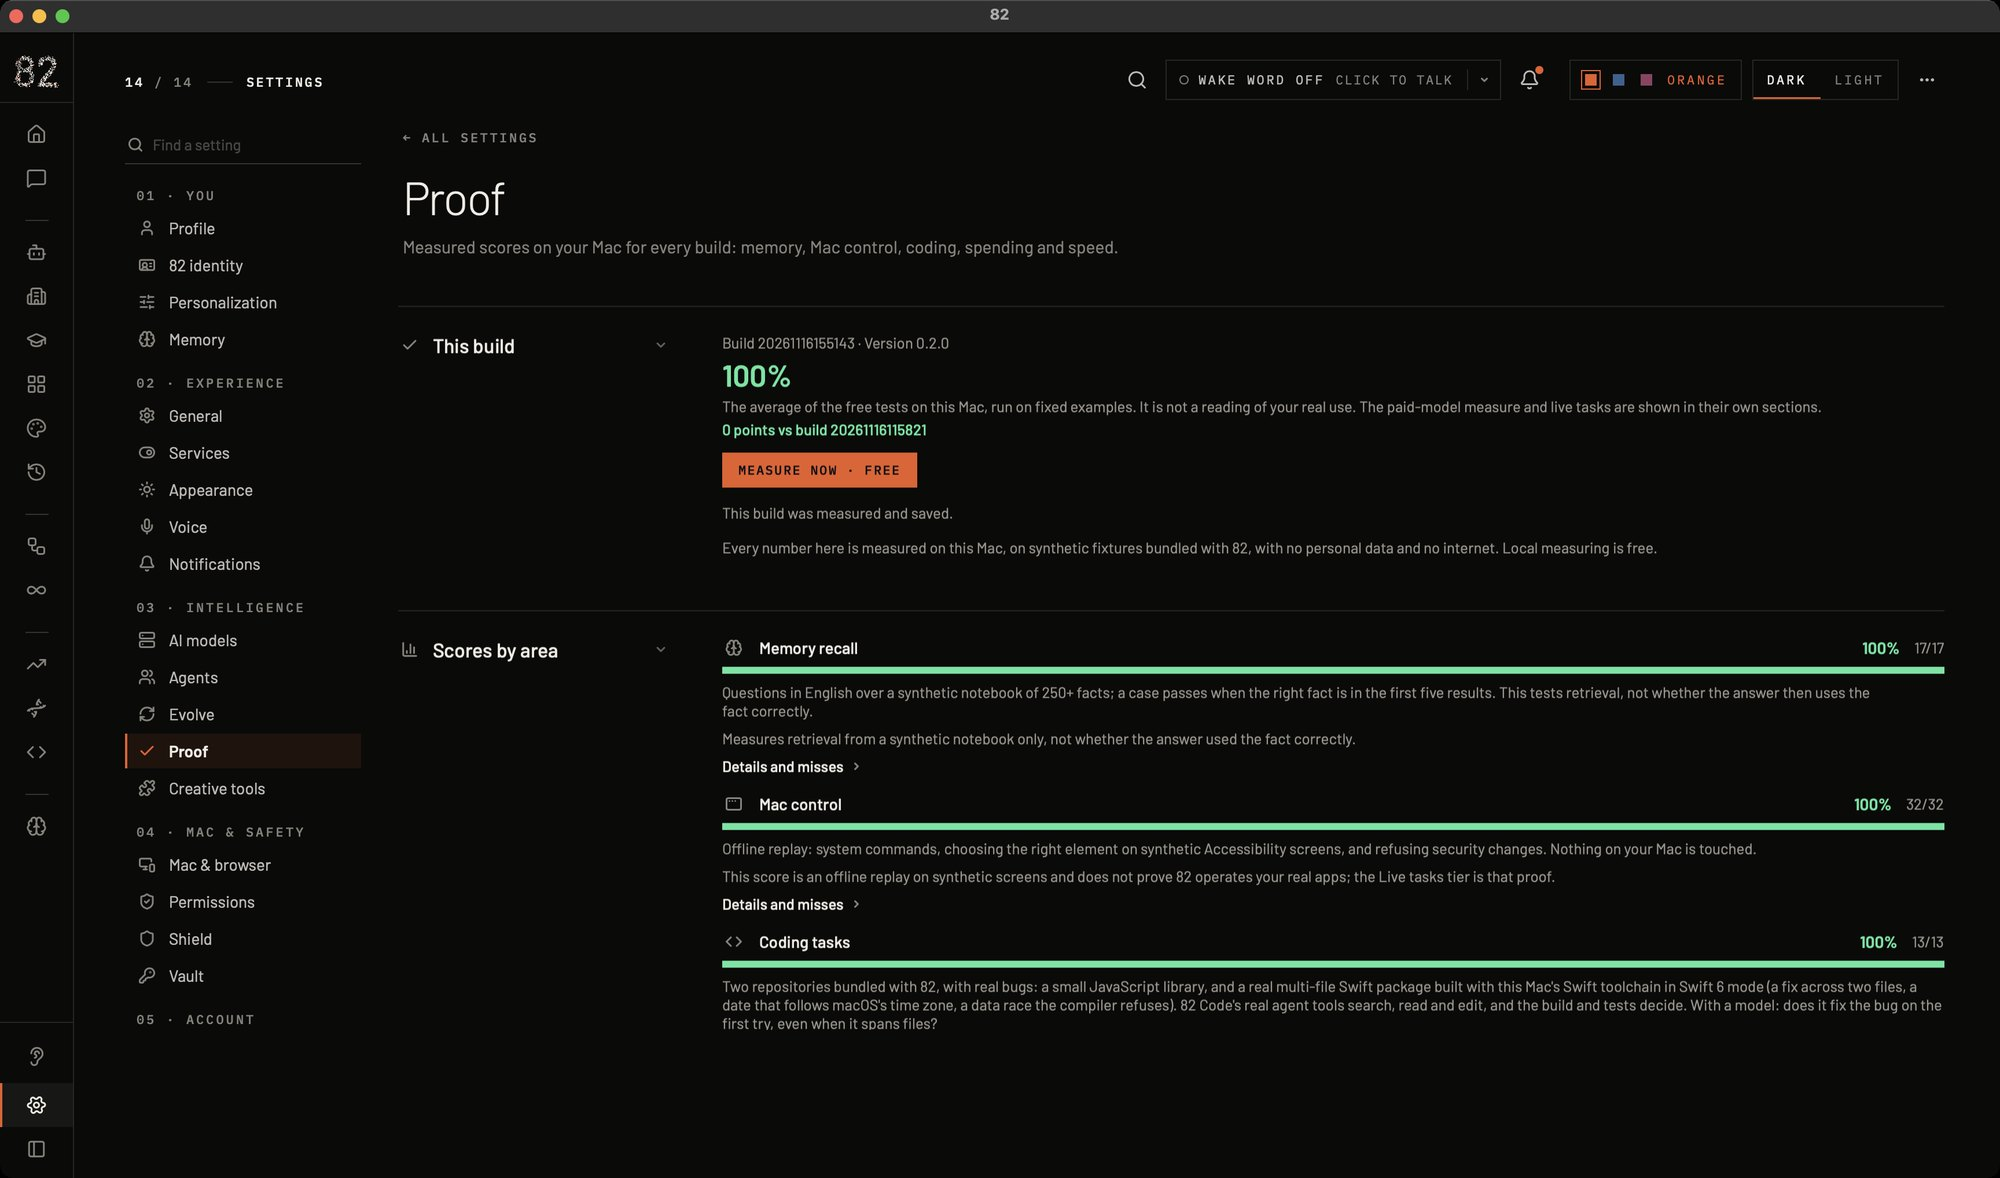
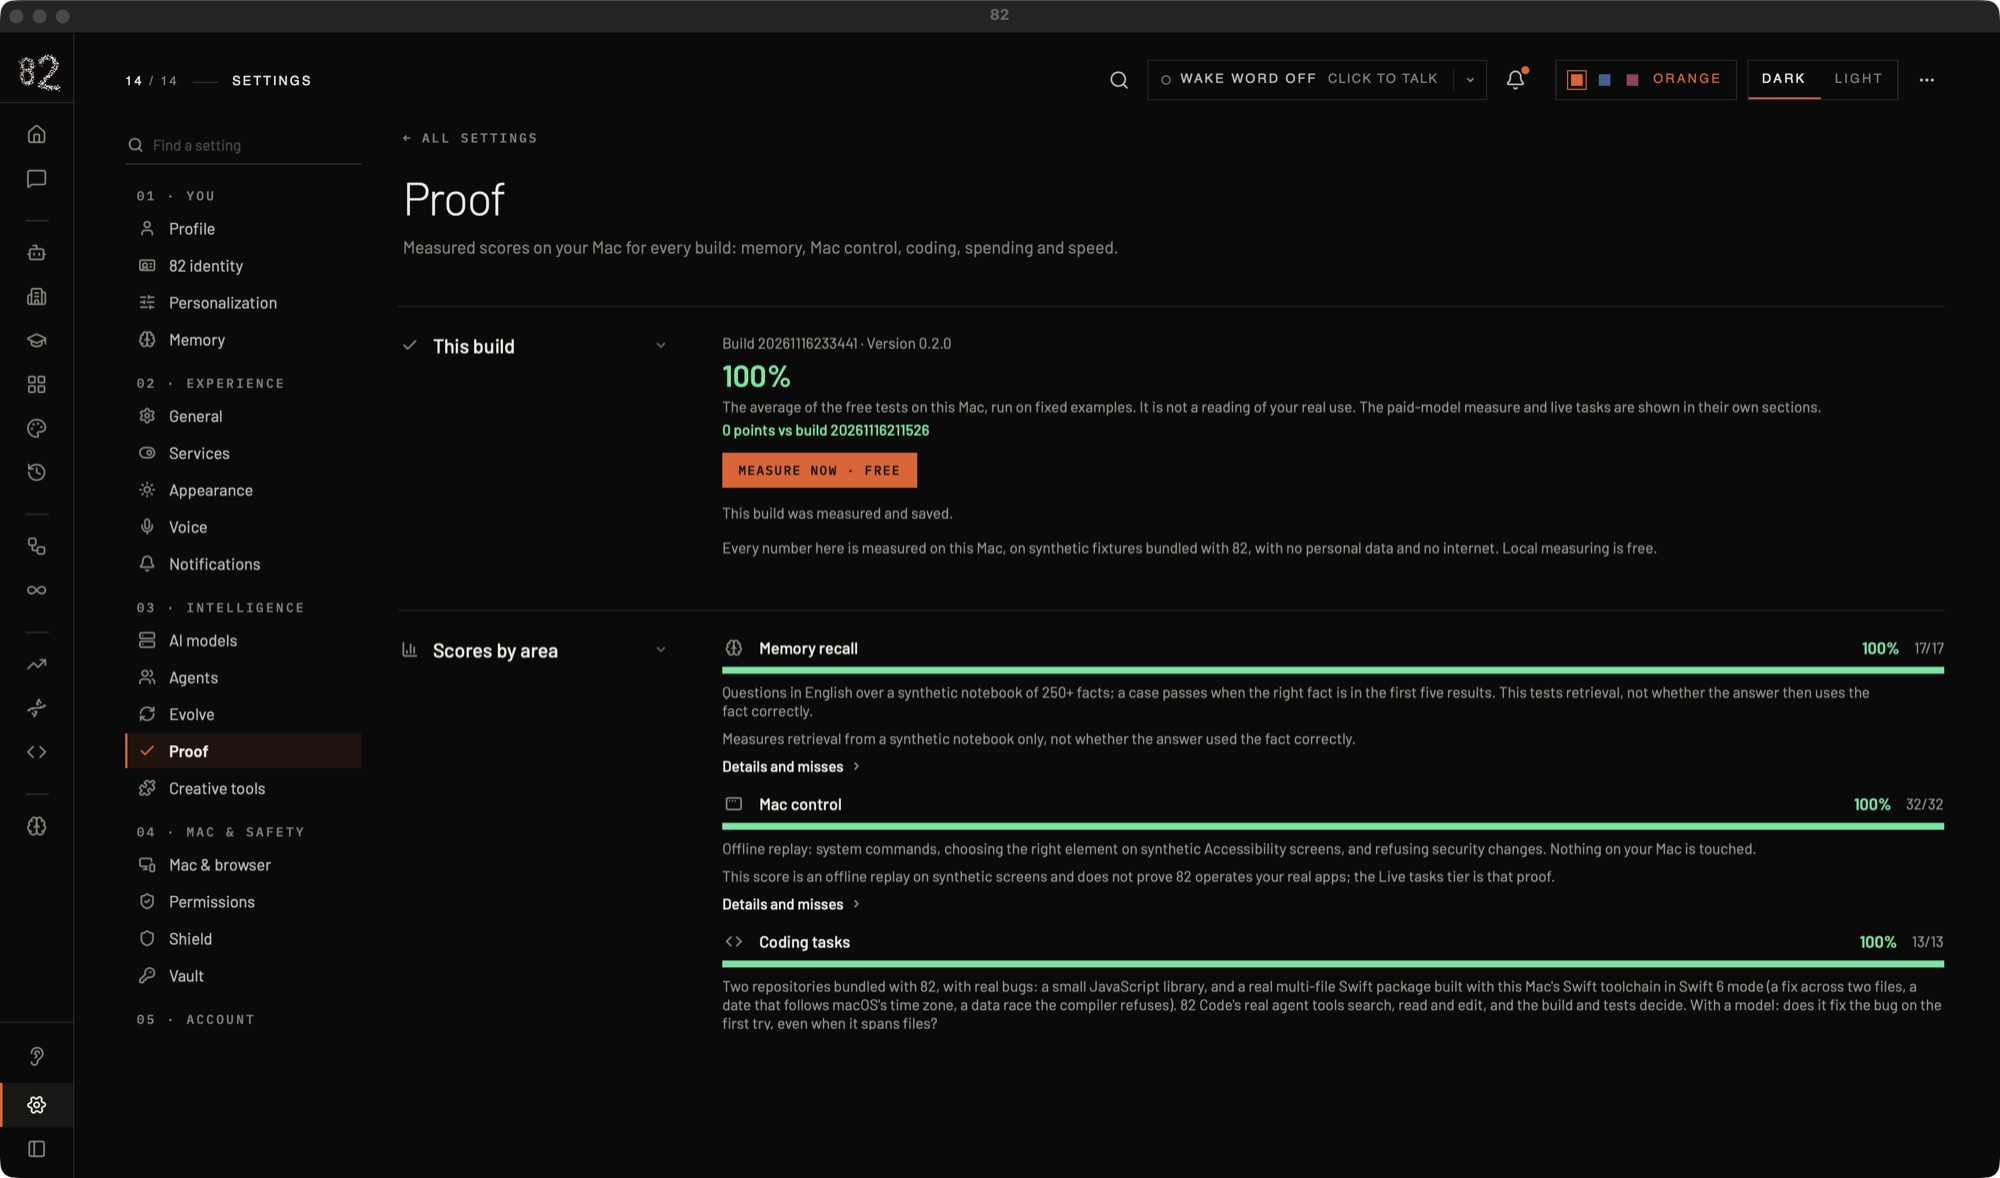
Build 20261116233441

diff --git a/README.md b/README.md
@@ -54,9 +54,9 @@ Tests bundled inside 82, run on the published build. The weakest score is publis
 
 The weakest score: Apple's free on-device model alone heard 2 of 4 test phrases exactly and solved 1 of 7 coding tasks on this build.
 
-Build `20261116155143` · v0.2.0 · 450 release checks passed · measured 16 November 2026. Every test and every score: **[meet82.com/proof](https://meet82.com/proof)**
+Build `20261116233441` · v0.2.0 · 450 release checks passed · measured 16 November 2026. Every test and every score: **[meet82.com/proof](https://meet82.com/proof)**
 
-<p align="center"><img src="screen-proof.jpg" alt="Proof inside 82, build 20261116155143" width="100%"></p>
+<p align="center"><img src="screen-proof.jpg" alt="Proof inside 82, build 20261116233441" width="100%"></p>
 
 ## Yours, on your Mac.
 
